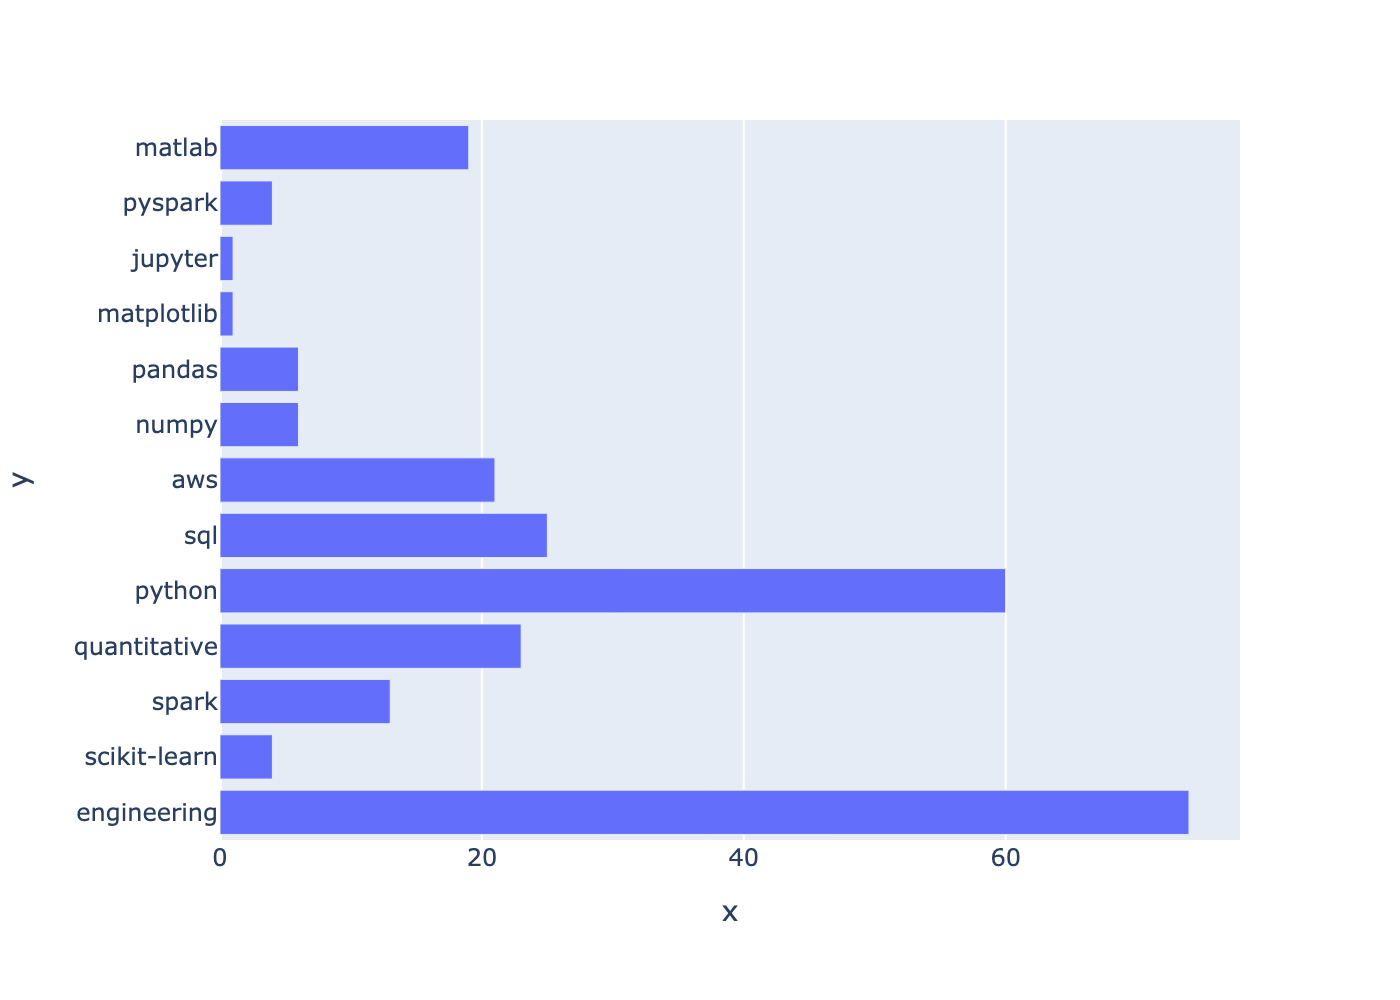
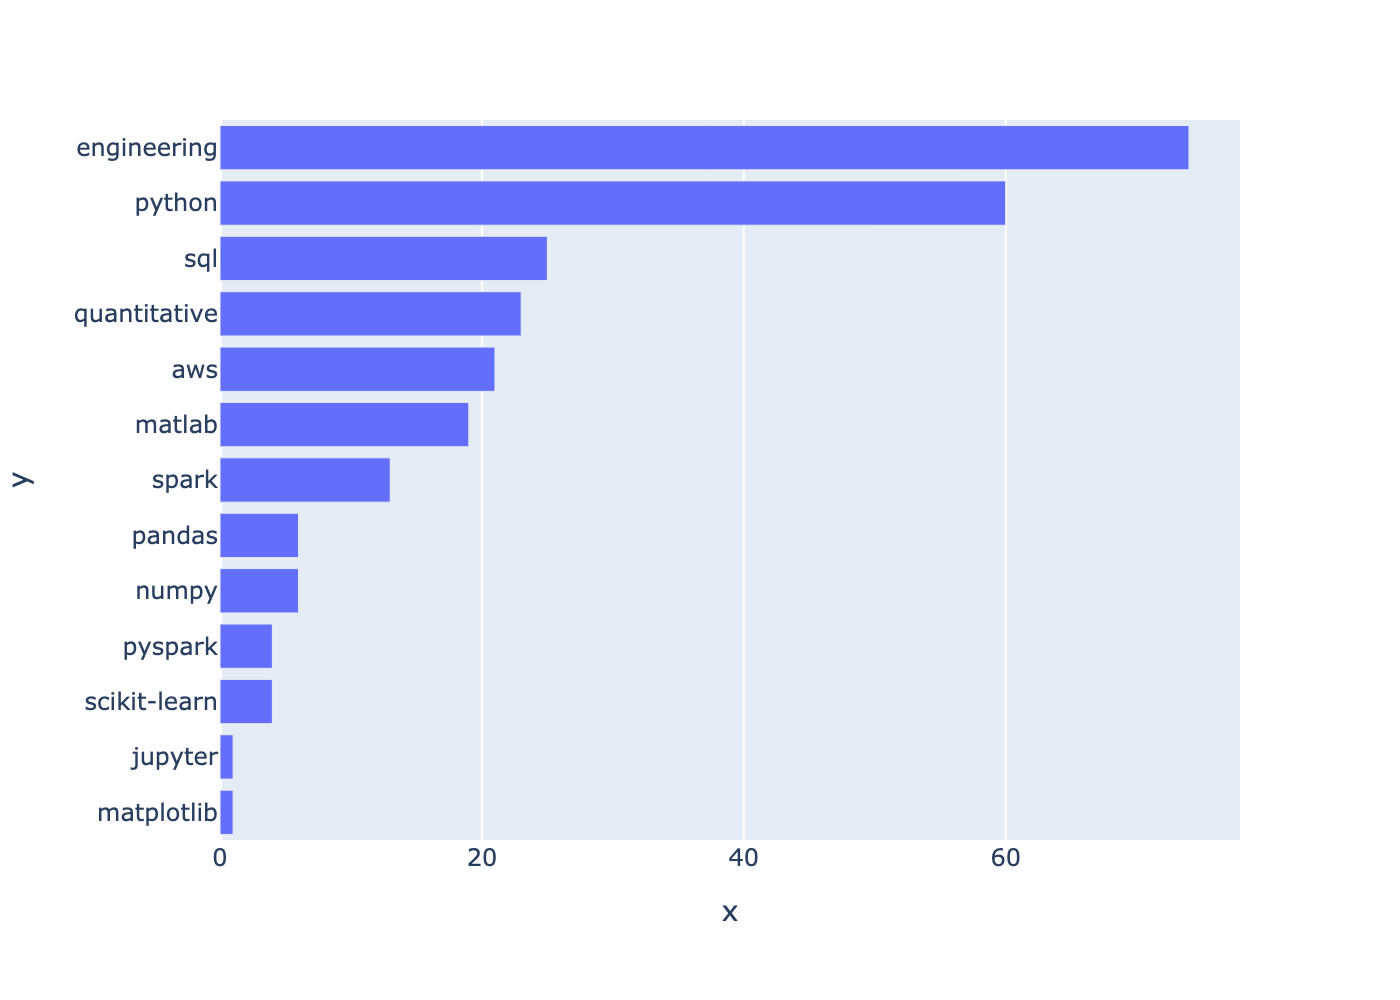
newcodes

diff --git a/Plotting.py b/Plotting.py
@@ -14,12 +14,14 @@ class plotter:
         data_ = [data[d] for d in (keys) if d.find('content')!=-1]
         All_list = (list(itertools.chain.from_iterable(data_)))
         Frequency = dict(Counter(All_list))
+        sorted_tuples = sorted(Frequency.items(), key = lambda item:item[1])
+        Frequency = {k:v for k, v in sorted_tuples}
         x = list(Frequency.keys())
         y = list(Frequency.values())
         fig_1 = px.bar( x=y, y=x, orientation='h')
         fig_1.update_layout( xaxis={'categoryorder':'category descending'})
         fig_1.write_image('bar'+file_.split('.')[0]+'.png',scale=2)
-        fig_1
+        fig_1.show()
         fig_2 = px.pie(values=y, names=x, title='What skills are needed in data science'+'  '+file_.split('.')[0])
         fig_2.write_image('pie'+file_.split('.')[0]+'.png',scale=2)
         fig_2.show()
